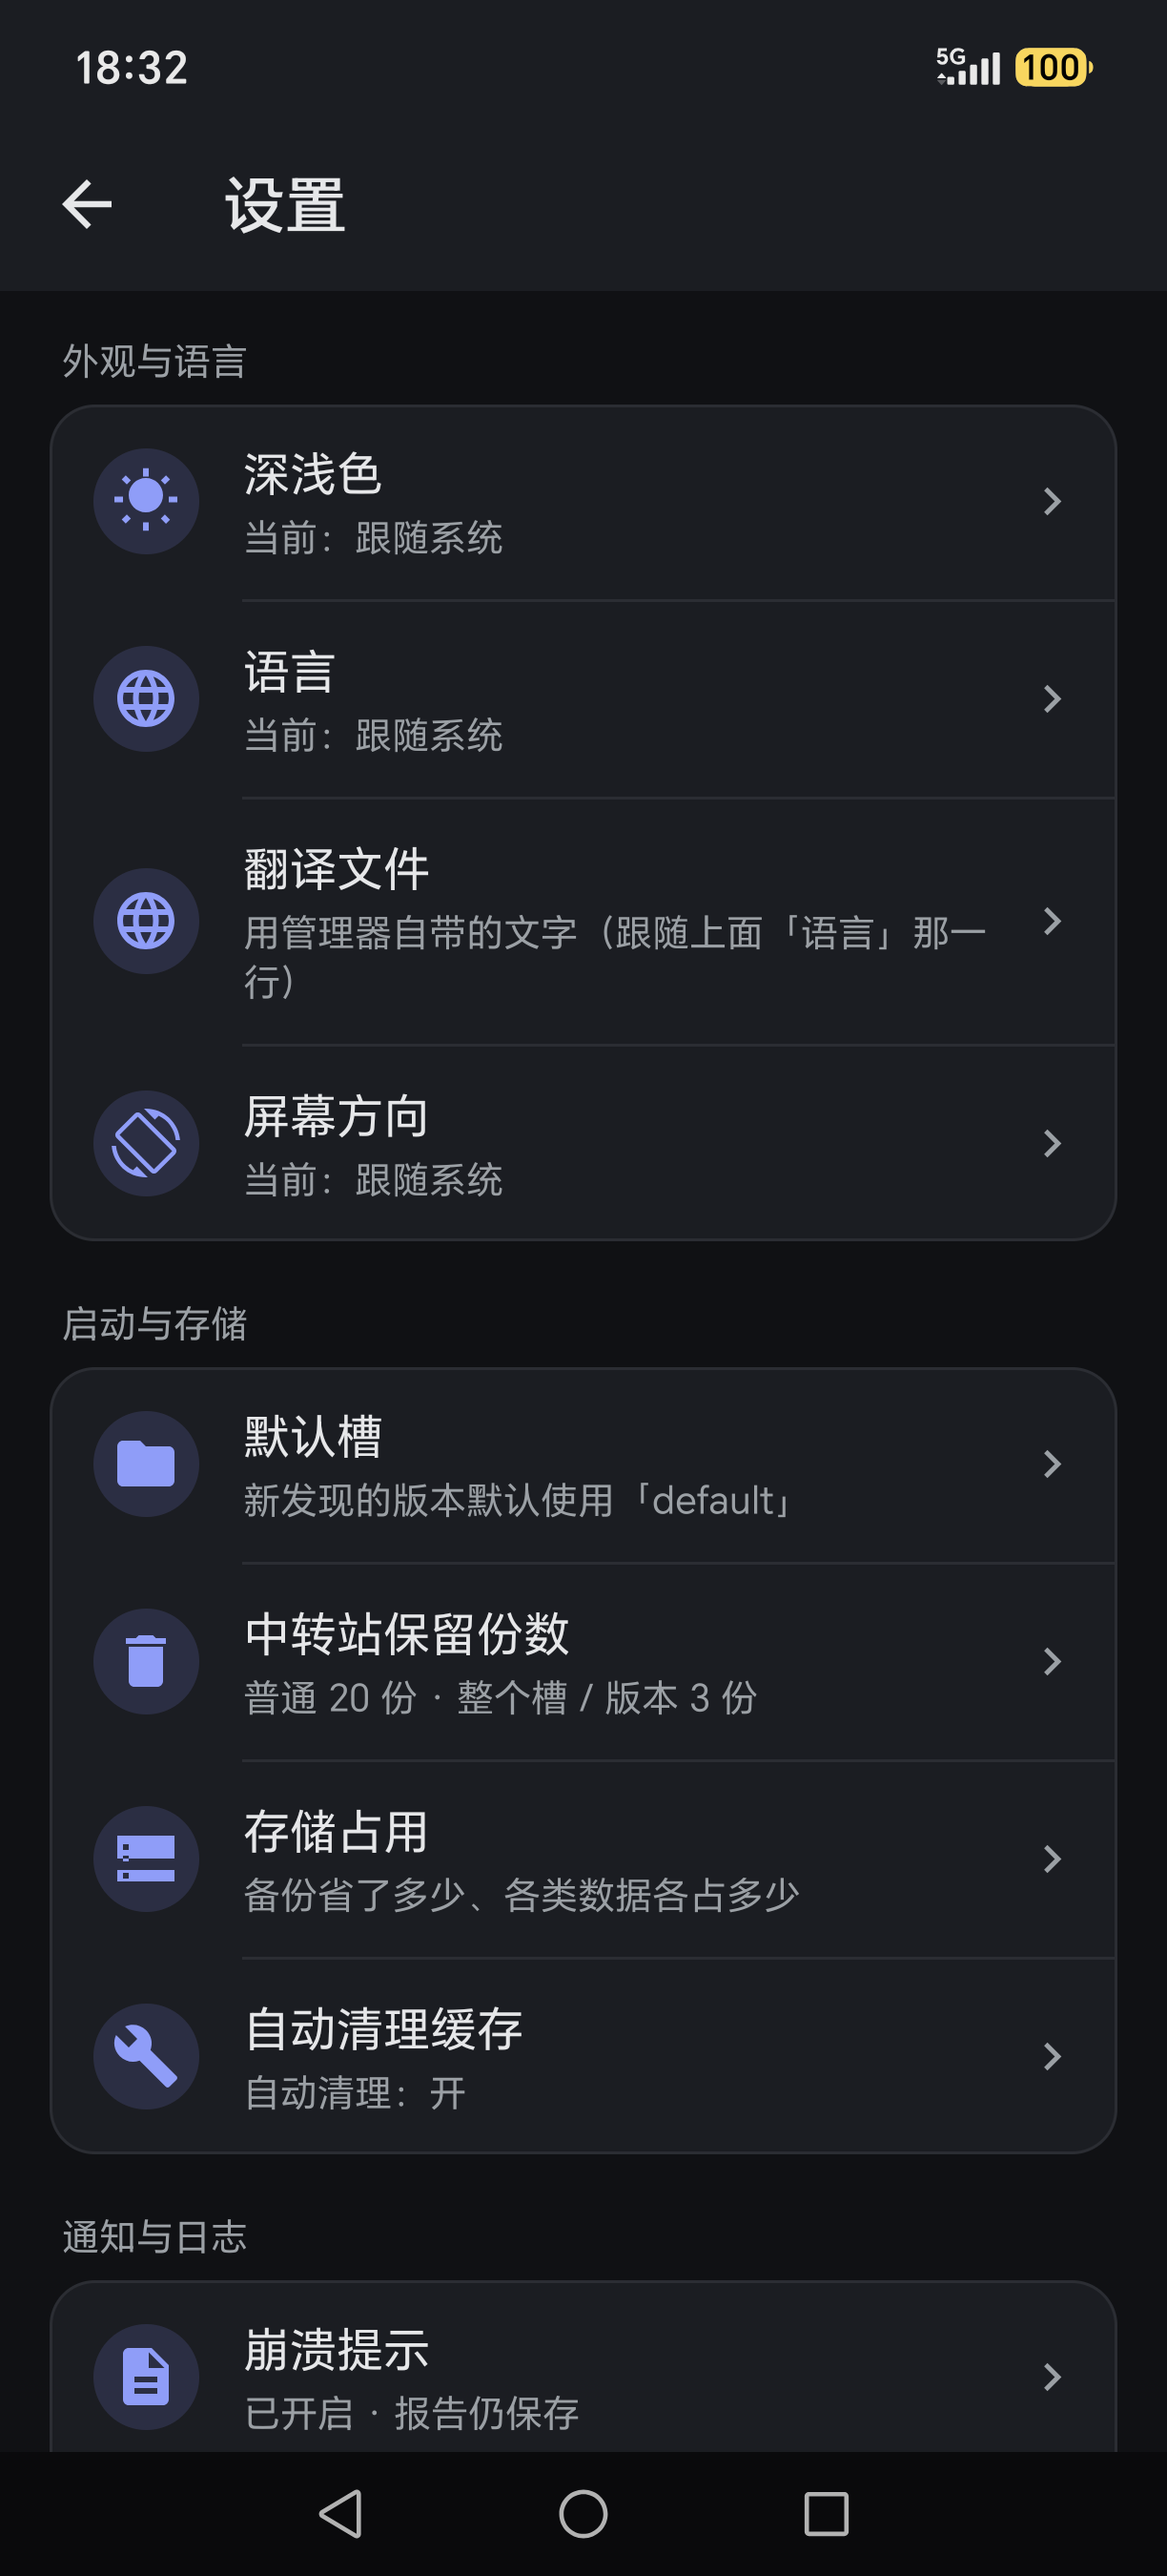
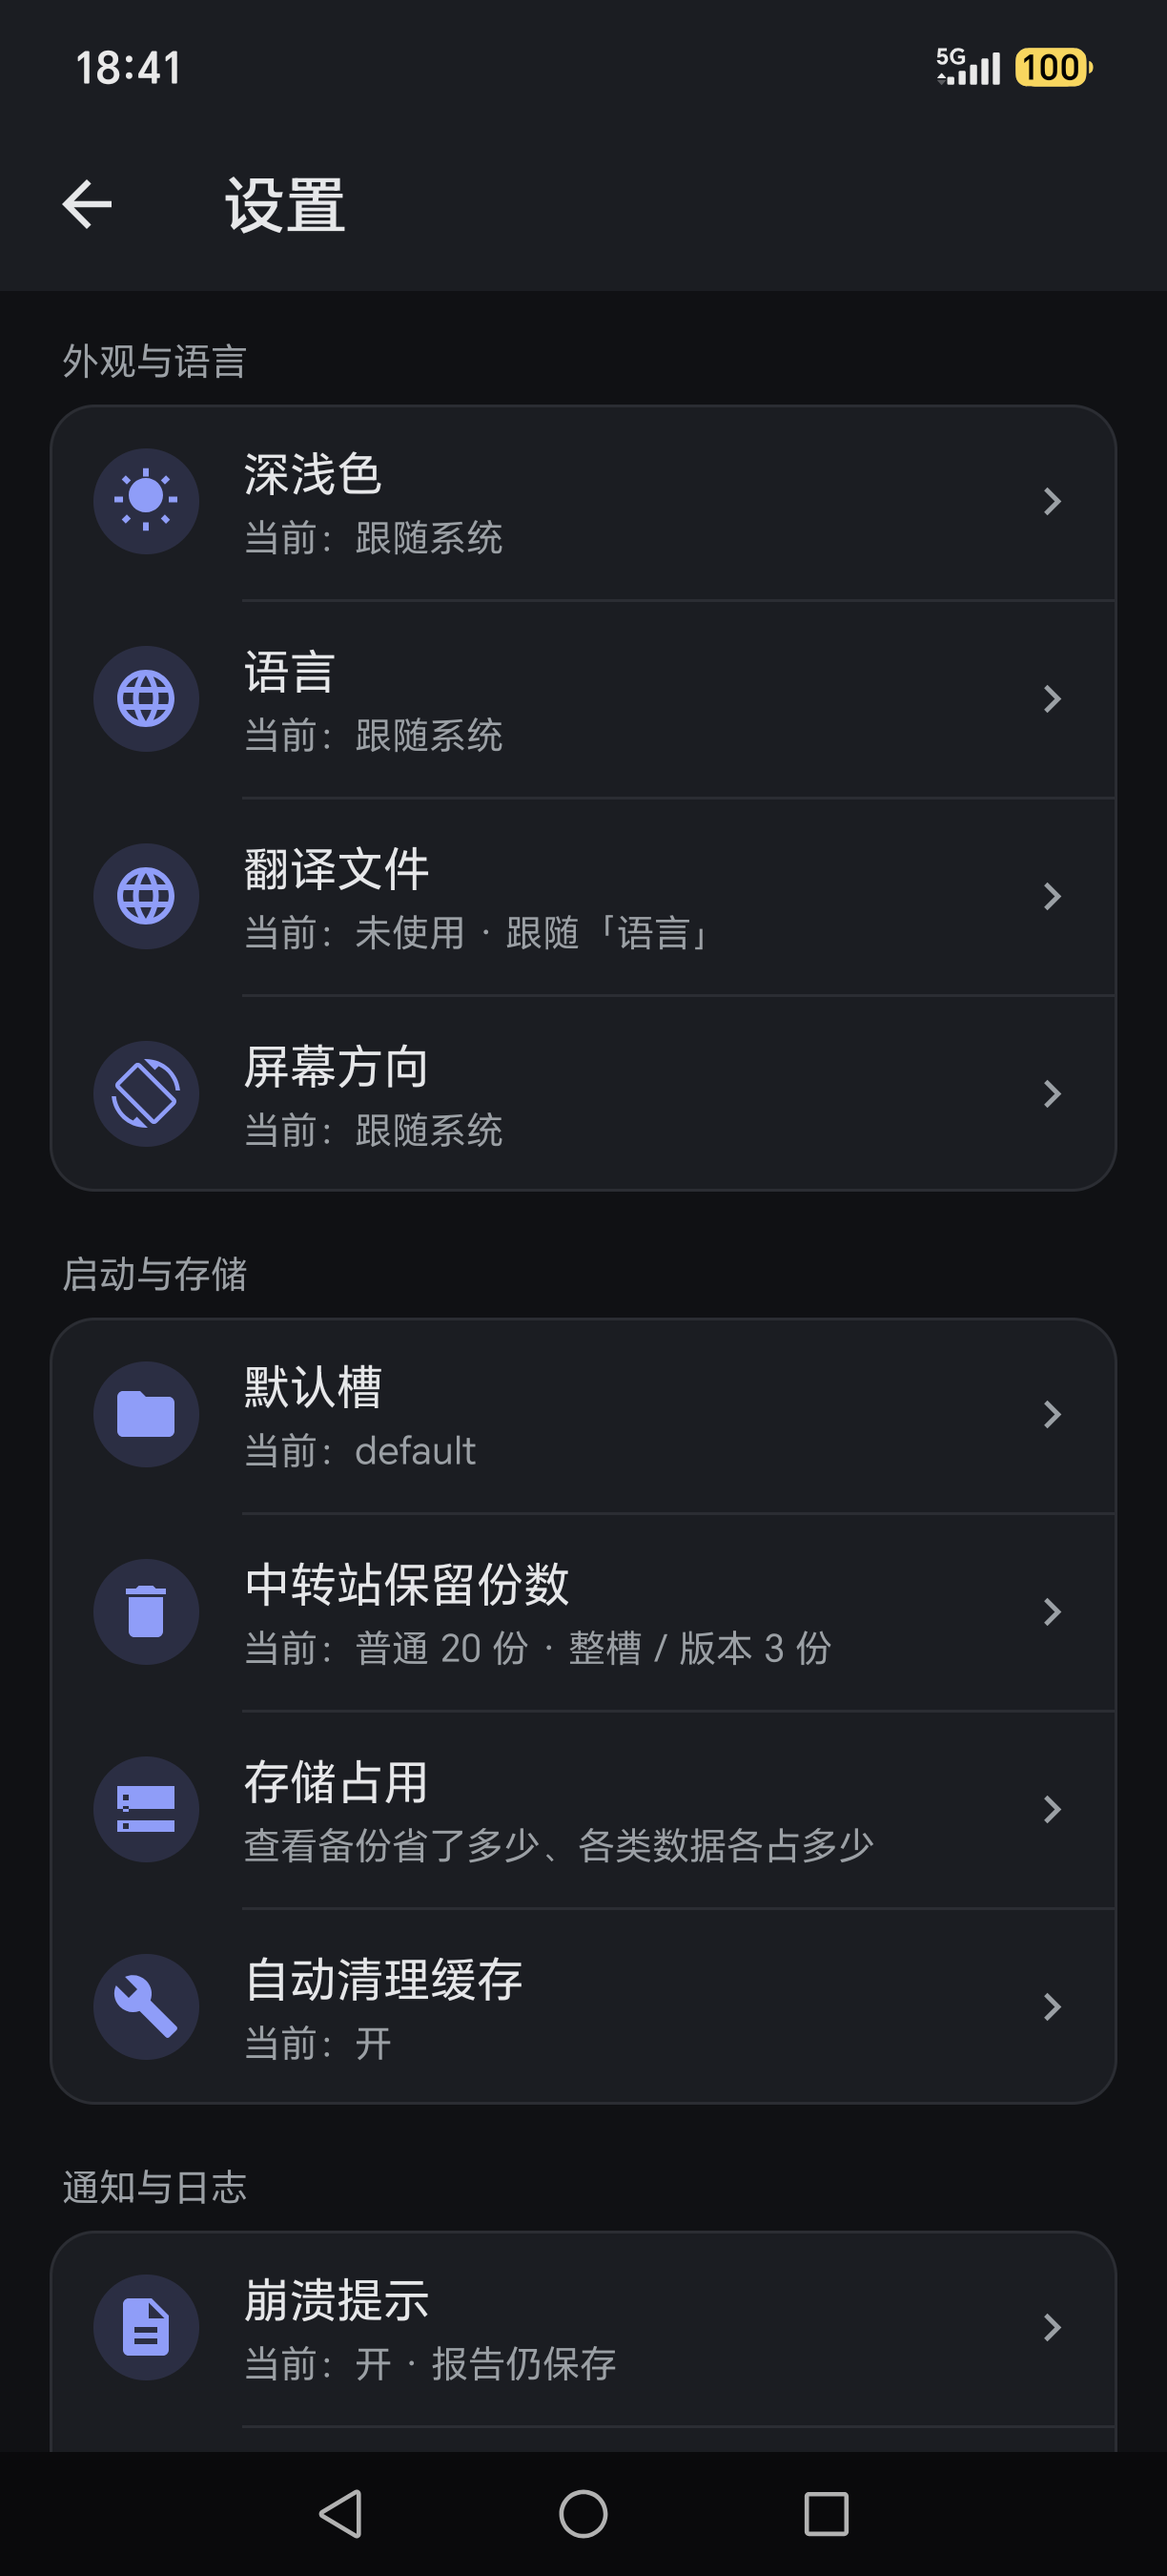
设置页小字统一：当前：… / 查看…（第 383 轮）
- 有当前值/状态的行统一「当前：<值>」（可跟「 · <补充>」）：默认槽 / 崩溃提示 /
  自动清理缓存 / 日志份数 / 中转站保留份数 / 检查更新 / 自动检查 / 插件自动更新 / 翻译文件
- 纯导航行统一「查看<它能做什么>」：存储占用 / 关于
- 英文同步 Current: … / View …；语言包统计改用短格式；自动清理副标题改走 Trans
- 自检 2308/0；真机两屏逐行核对，证据按新文案更新

diff --git a/app/src/io/mdt/launcher/SettingsActivity.java b/app/src/io/mdt/launcher/SettingsActivity.java
@@ -265,7 +265,10 @@ public class SettingsActivity extends BaseActivity {
 
     /**
      * 每次回本页重取一次：默认槽可能在别处被删（存档页删槽后这里要跟着回落）。
-     * 副标题就是"当前值"，和桌面版把当前值回填到输入框是同一个意思。
+     *
+     * <p>★ 第 383 轮统一小字口径（用户：「整个设置页面的小字说法都统一」）：
+     * <b>有当前值 / 状态的行一律「当前：&lt;值&gt;」</b>，需要补一句时用「 · &lt;补充&gt;」；
+     * 纯导航行（存储占用、关于）一律「查看&lt;它能做什么&gt;」。</p>
      */
     private void fillValues() {
         if (mThemeSub != null) {
@@ -300,8 +303,10 @@ public class SettingsActivity extends BaseActivity {
                     Config.get().trashKeep(), Config.get().trashKeepSlots()));
         }
         if (mAutoCleanSub != null) {
-            mAutoCleanSub.setText(Config.get().autoCleanRedundant()
-                    ? R.string.set_autoclean_on : R.string.set_autoclean_off);
+            // ★ 走 Trans（别 setText(resId)）：用户语言包要能改这一条。
+            mAutoCleanSub.setText(Trans.get(SettingsActivity.this,
+                    Config.get().autoCleanRedundant() ? R.string.set_autoclean_on
+                            : R.string.set_autoclean_off));
         }
         if (mLangPackSub != null) {
             Trans.Pack p = Trans.installed(SettingsActivity.this)
@@ -309,13 +314,14 @@ public class SettingsActivity extends BaseActivity {
             if (p == null) {
                 mLangPackSub.setText(Trans.get(SettingsActivity.this, R.string.lang_row_none));
             } else {
-                String s = Trans.get(SettingsActivity.this, R.string.lang_stat_used_fmt, p.used());
+                // ★ 第 383 轮：统一「当前：<值> · <补充>」；别再用全角空格拼统计。
+                String s = Trans.get(SettingsActivity.this, R.string.lang_row_used_fmt, p.used());
                 if (!p.ok()) {
-                    s += "　" + Trans.get(SettingsActivity.this, R.string.lang_rejected_fmt,
+                    s += " · " + Trans.get(SettingsActivity.this, R.string.lang_row_rejected_fmt,
                             p.rejected.size());
                 }
                 if (!p.unknown.isEmpty()) {
-                    s += "　" + Trans.get(SettingsActivity.this, R.string.lang_unknown_fmt,
+                    s += " · " + Trans.get(SettingsActivity.this, R.string.lang_row_unknown_fmt,
                             p.unknown.size());
                 }
                 mLangPackSub.setText(s);
@@ -328,9 +334,10 @@ public class SettingsActivity extends BaseActivity {
                     R.string.update_check_sub_fmt, UpdateUi.versionName(this)));
         }
         if (mUpdateModeSub != null) {
-            // 这副标题就是"现在的模式"：已关闭 · 只手动检查 / 自动 · 只收稳定版 / 自动 · 也收预览版
+            // 副标题 = 当前模式，统一带「当前：」（第 383 轮）。
             mUpdateModeSub.setText(Trans.get(SettingsActivity.this,
-                    UpdateMode.labelRes(UpdateMode.of(this))));
+                    R.string.set_update_mode_sub_fmt,
+                    getString(UpdateMode.labelRes(UpdateMode.of(this)))));
         }
         if (mUpdateLineSub != null) {
             mUpdateLineSub.setText(Trans.get(SettingsActivity.this,
